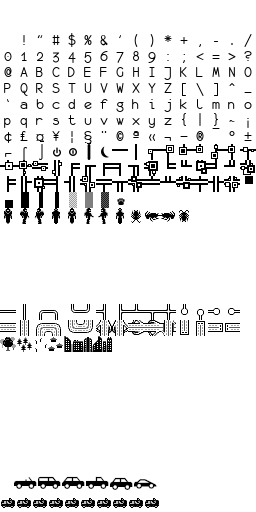
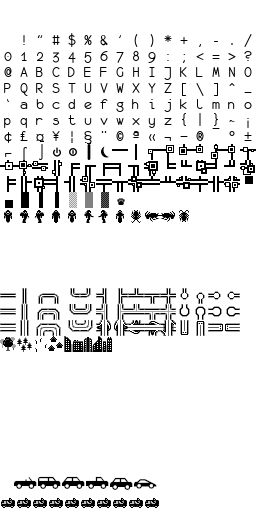
feat: 4-direction orientation for player character

Changed region(s): [[0.0, 0.5625, 0.9375, 0.6875], [0.25, 0.4062, 0.5, 0.4375], [0.0, 0.4062, 0.1875, 0.4375]]

diff --git a/src/display/mod.rs b/src/display/mod.rs
@@ -34,7 +34,6 @@ impl Display {
             .size(SCREEN_WIDTH, SCREEN_HEIGHT)
             .title("SCRAPS: Bug Hunter")
             .init();
-
         root.set_default_background(DEFAULT_BG);
         root.set_default_foreground(DEFAULT_FG);
         root.clear();
@@ -59,6 +58,7 @@ impl<'a> System<'a> for Display {
         ReadStorage<'a, Cursor>,
         ReadStorage<'a, Description>,
         ReadStorage<'a, IconRef>,
+        ReadStorage<'a, Orientation>,
         ReadStorage<'a, Player>,
         ReadStorage<'a, Position>,
         ReadStorage<'a, Region>,
@@ -80,6 +80,7 @@ impl<'a> System<'a> for Display {
             cursors,
             descriptions,
             icons,
+            orientations,
             players,
             positions,
             regions,
@@ -119,6 +120,7 @@ impl<'a> System<'a> for Display {
                         &cursors,
                         &colors,
                         &icons,
+                        &orientations,
                         &players,
                         &positions,
                         &regions,
@@ -148,6 +150,7 @@ impl<'a> System<'a> for Display {
                         &cursors,
                         &colors,
                         &icons,
+                        &orientations,
                         &players,
                         &positions,
                         &regions,
@@ -220,6 +223,7 @@ impl Display {
         cursors: &ReadStorage<'a, Cursor>,
         colors: &ReadStorage<'a, Colors>,
         icons: &ReadStorage<'a, IconRef>,
+        orientations: &ReadStorage<'a, Orientation>,
         players: &ReadStorage<'a, Player>,
         positions: &ReadStorage<'a, Position>,
         regions: &ReadStorage<'a, Region>,
@@ -340,17 +344,7 @@ impl Display {
                 .set_char_background(pos.x, pos.y, TColor::from(bg), BackgroundFlag::Set);
         }
 
-        // draw player, make sure it ends up on top
-        for (pos, icon, color, ..) in (positions, icons, colors, players).join() {
-            self.root.put_char(
-                pos.x,
-                pos.y,
-                assets.get_icon(&icon.name).base_ch(),
-                BackgroundFlag::None,
-            );
-            self.root
-                .set_char_foreground(pos.x, pos.y, TColor::from(color.fg))
-        }
+        self.draw_player(orientations, positions, icons, colors, players, assets);
 
         // draw in the cursor highlight
         for (pos, ..) in (positions, cursors).join() {
@@ -371,6 +365,7 @@ impl Display {
         cursors: &ReadStorage<'a, Cursor>,
         colors: &ReadStorage<'a, Colors>,
         icons: &ReadStorage<'a, IconRef>,
+        orientations: &ReadStorage<'a, Orientation>,
         players: &ReadStorage<'a, Player>,
         positions: &ReadStorage<'a, Position>,
         regions: &ReadStorage<'a, Region>,
@@ -433,17 +428,7 @@ impl Display {
             }
         }
 
-        // draw player, make sure it ends up on top
-        for (pos, icon, color, ..) in (positions, icons, colors, players).join() {
-            self.root.put_char(
-                pos.x,
-                pos.y,
-                assets.get_icon(&icon.name).base_ch(),
-                BackgroundFlag::None,
-            );
-            self.root
-                .set_char_foreground(pos.x, pos.y, TColor::from(color.fg))
-        }
+        self.draw_player(orientations, positions, icons, colors, players, assets);
 
         // draw in the cursor highlight
         for (pos, ..) in (positions, cursors).join() {
@@ -453,6 +438,48 @@ impl Display {
                 TColor::new(110, 180, 144),
                 BackgroundFlag::Overlay,
             );
+        }
+    }
+
+    fn draw_player<'a>(
+        &mut self,
+        orientations: &ReadStorage<'a, Orientation>,
+        positions: &ReadStorage<'a, Position>,
+        icons: &ReadStorage<'a, IconRef>,
+        colors: &ReadStorage<'a, Colors>,
+        players: &ReadStorage<'a, Player>,
+        assets: &Read<'a, Assets>,
+    ) {
+        // draw player, make sure it ends up on top
+        for (orientation, pos, icon, color, ..) in
+            (orientations, positions, icons, colors, players).join()
+        {
+            let mut north = false;
+            let mut south = false;
+            let mut east = false;
+            let mut west = false;
+            match orientation.dir {
+                Direction::North => {
+                    north = true;
+                }
+                Direction::South => {
+                    south = true;
+                }
+                Direction::East => {
+                    east = true;
+                }
+                Direction::West => {
+                    west = true;
+                }
+            }
+            self.root.put_char(
+                pos.x,
+                pos.y,
+                assets.get_icon(&icon.name).ch(north, south, east, west),
+                BackgroundFlag::None,
+            );
+            self.root
+                .set_char_foreground(pos.x, pos.y, TColor::from(color.fg))
         }
     }
 

diff --git a/src/system/movement.rs b/src/system/movement.rs
@@ -10,6 +10,7 @@ impl<'a> System<'a> for Movement {
         ReadStorage<'a, Region>,
         WriteStorage<'a, MovePlan>,
         ReadStorage<'a, Solid>,
+        WriteStorage<'a, Orientation>,
         WriteStorage<'a, Position>,
         Read<'a, AreaMaps>,
         Write<'a, CollisionMaps>,
@@ -19,15 +20,24 @@ impl<'a> System<'a> for Movement {
     fn run(
         &mut self,
         (
-      regions,
-      mut plans,
-      solids,
-      mut positions,
-      area_maps,
-      mut collision_maps,
-      entities): Self::SystemData,
+            regions,
+            mut plans,
+            solids,
+            mut orientations,
+            mut positions,
+            area_maps,
+            mut collision_maps,
+            entities,
+        ): Self::SystemData,
     ) {
-        for (region, plan, pos, entity) in (&regions, &mut plans, &mut positions, &entities).join()
+        for (region, orientation, plan, pos, entity) in (
+            &regions,
+            &mut orientations,
+            &mut plans,
+            &mut positions,
+            &entities,
+        )
+            .join()
         {
             // guard against entities outside currently loaded map
             if !area_maps.has(*region) {
@@ -63,6 +73,18 @@ impl<'a> System<'a> for Movement {
                 } // always ok to move if not solid
             }
             if ok {
+                if plan.x > 0 {
+                    orientation.dir = Direction::East;
+                }
+                if plan.x < 0 {
+                    orientation.dir = Direction::West;
+                }
+                if plan.y > 0 {
+                    orientation.dir = Direction::South;
+                }
+                if plan.y < 0 {
+                    orientation.dir = Direction::North;
+                }
                 // do the move if all checks passed
                 collision_maps.set(*region, *pos, false);
                 collision_maps.set(*region, new_pos, true);

diff --git a/src/component/mod.rs b/src/component/mod.rs
@@ -10,6 +10,7 @@ mod icon_ref;
 mod move_plan;
 mod notification;
 mod opaque;
+mod orientation;
 mod player;
 mod position;
 mod region;
@@ -24,6 +25,7 @@ pub use self::icon_ref::IconRef;
 pub use self::move_plan::MovePlan;
 pub use self::notification::NotificationInteraction;
 pub use self::opaque::Opaque;
+pub use self::orientation::*;
 pub use self::player::Player;
 pub use self::position::Position;
 pub use self::region::Region;
@@ -42,6 +44,7 @@ pub fn init(world: &mut World) {
     world.register::<Player>();
     world.register::<Position>();
     world.register::<Opaque>();
+    world.register::<Orientation>();
     world.register::<Region>();
     world.register::<Solid>();
 }

diff --git a/src/component/orientation.rs b/src/component/orientation.rs
@@ -1,0 +1,30 @@
+use serde::{Deserialize, Serialize};
+use specs::{Component, VecStorage};
+
+#[derive(Copy, Clone, Debug, Eq, PartialEq, Deserialize, Serialize)]
+pub enum Direction {
+    North,
+    South,
+    East,
+    West,
+}
+
+#[derive(Copy, Clone, Debug, Eq, PartialEq, Component, Deserialize, Serialize)]
+#[storage(VecStorage)]
+pub struct Orientation {
+    pub dir: Direction,
+}
+
+impl Default for Orientation {
+    fn default() -> Orientation {
+        Orientation {
+            dir: Direction::South,
+        }
+    }
+}
+
+impl Orientation {
+    pub fn new(dir: Direction) -> Orientation {
+        Orientation { dir }
+    }
+}

diff --git a/src/resource/asset/icon.rs b/src/resource/asset/icon.rs
@@ -74,8 +74,8 @@ impl Icon {
             (true, true, true, true) => self.center.unwrap_or(self.base),
             (false, false, false, true) => self.cap_l.unwrap_or(self.base),
             (false, false, true, false) => self.cap_r.unwrap_or(self.base),
-            (false, true, false, false) => self.cap_u.unwrap_or(self.base),
-            (true, false, false, false) => self.cap_d.unwrap_or(self.base),
+            (false, true, false, false) => self.cap_d.unwrap_or(self.base),
+            (true, false, false, false) => self.cap_u.unwrap_or(self.base),
             (false, false, false, false) => self.base,
         }
     }

diff --git a/src/main.rs b/src/main.rs
@@ -53,6 +53,7 @@ fn main() {
             bg: Color::new(255, 255, 255),
         })
         .with(Character::default())
+        .with(Orientation::new(Direction::South))
         .build();
 
     let mut display = Display::new();
